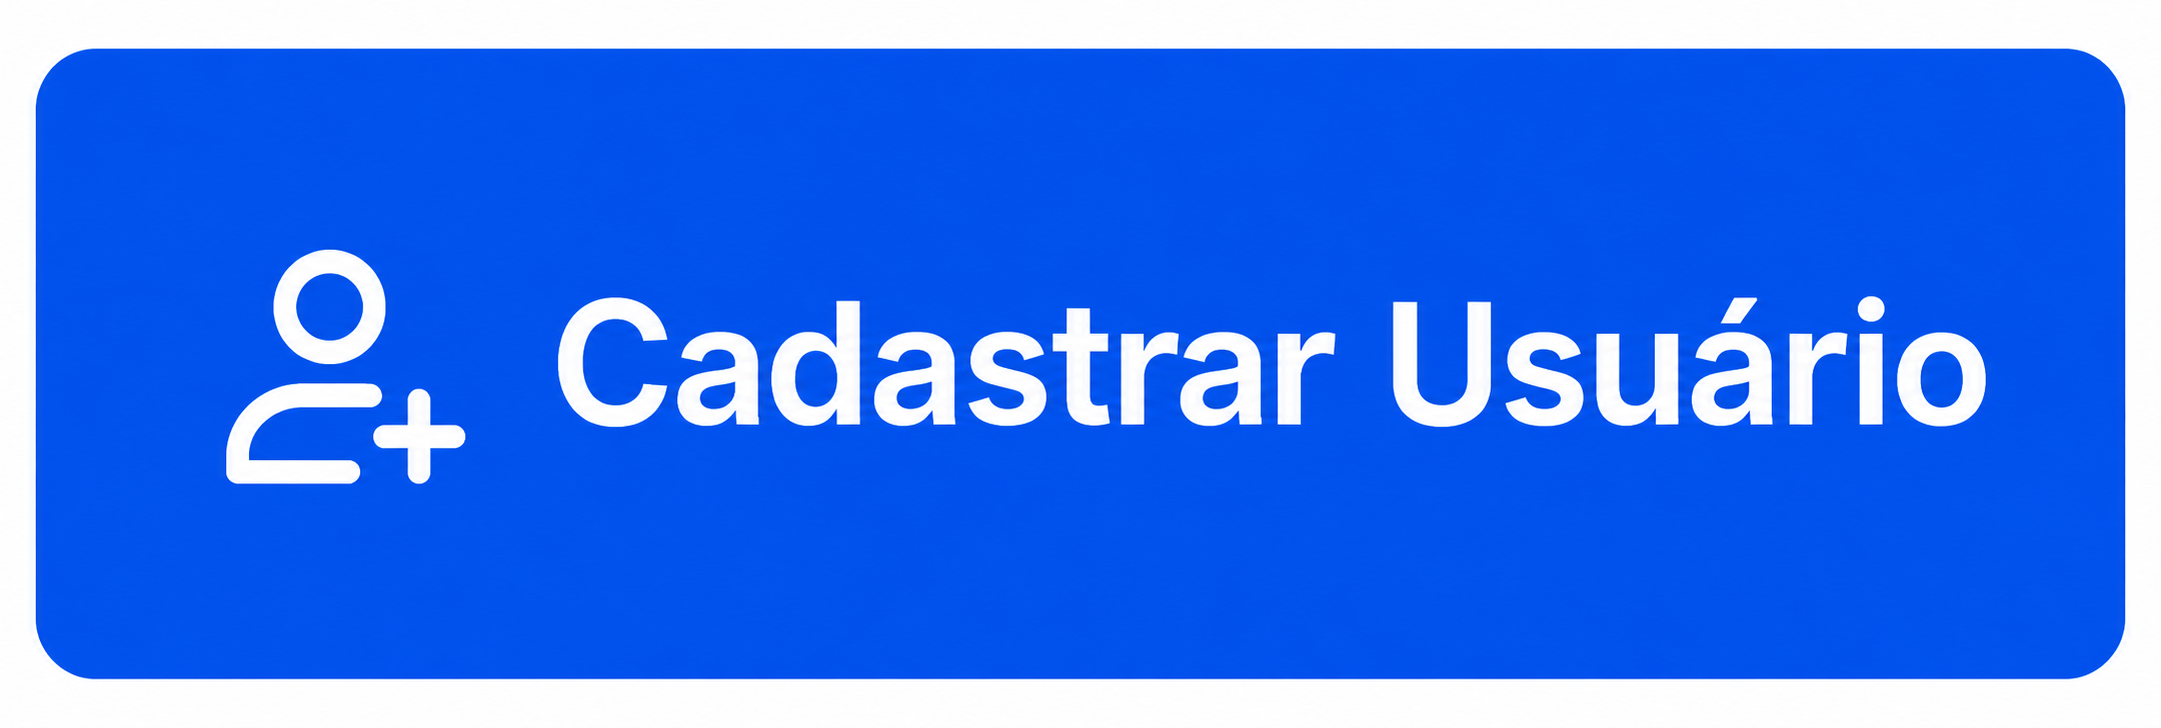
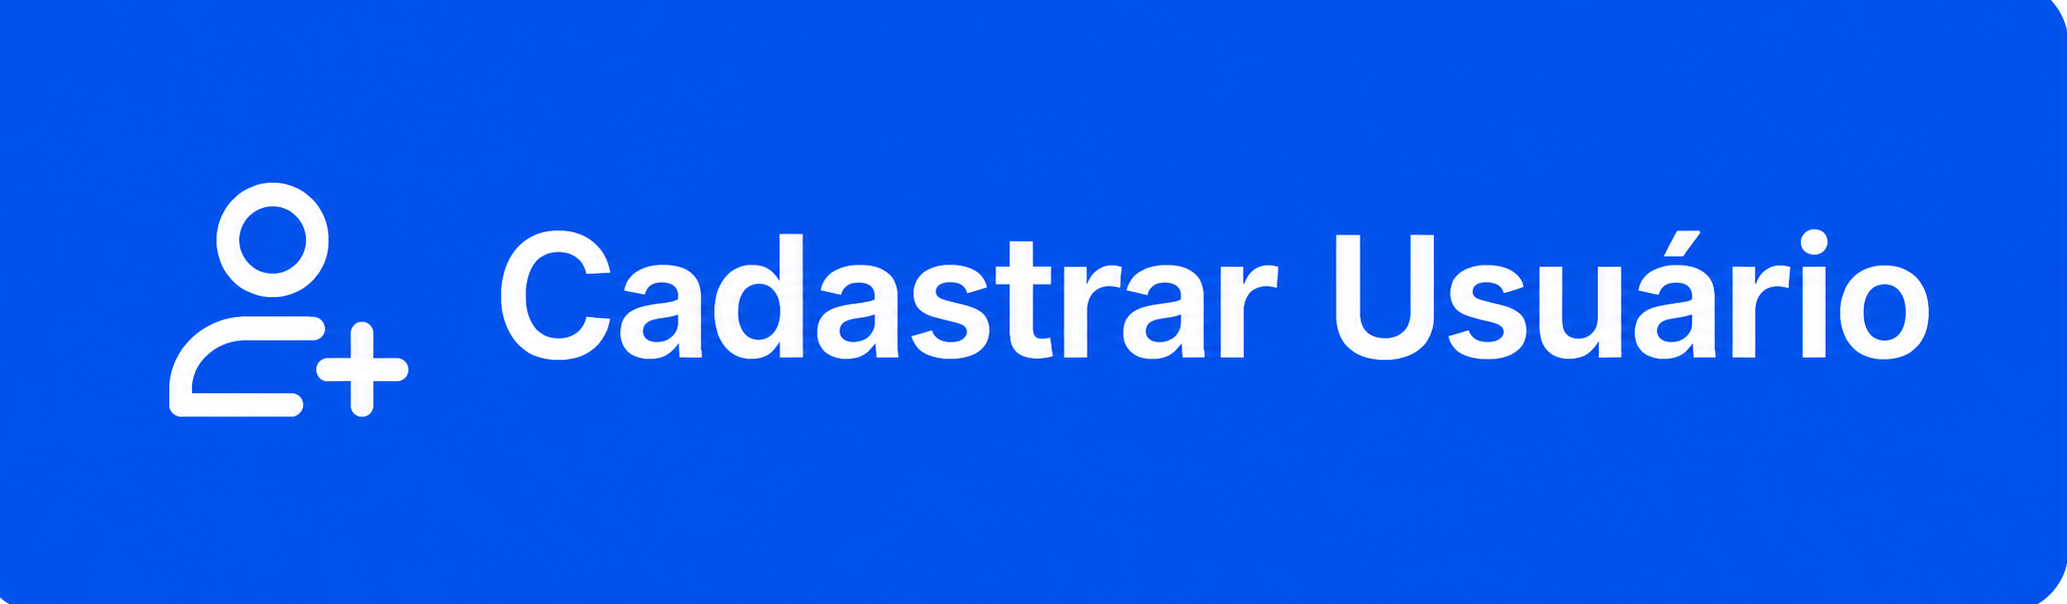
feat: continuação da  criação front de cadastro de usuários

Changed region(s): [[0.0, 0.0, 1.0, 1.0], [0.2167, 0.3576, 0.6193, 0.596], [0.0619, 0.298, 0.2167, 0.7152]]

diff --git a/src/main/resources/static/cadastro/cadastro.css b/src/main/resources/static/cadastro/cadastro.css
@@ -55,24 +55,125 @@ body{
 
 .cardInput{
     width:90vw;
-    height: 50vh;
+    height: 59vh;
     background-color: #FFFFFF;
     border-radius: 8px;
     display: flex;
     flex-direction: column;
-    justify-content: center;
+   
     padding: 1rem;
-    box-shadow: 0 4px 6px rgba(0, 0, 0, 2.5);
+    box-shadow: 0 4px 10px rgb(0, 0, 0, 0.15);
     margin-top: 0;
+    padding-top: 0;
+    gap: 3rem;
     
     
 }
 
 .imgTitulo{
-    width: 28vw;
-    height: 20vh;
+    padding-left: 2rem;
+    padding-top: 2rem;
+    width: 28rem;
+    height: auto;
 }
+
+.form button{
+    border: none;
+    cursor:pointer;
+    width: 10rem;
+    height: 2.5rem;
+ 
+
+}
+
 .imgBtn{
-    width: 15vw;
+    width: 10rem;
+    height: 2.5rem;
+    display: block;
+    border-radius: 8px;
+    outline: none;
+    transition: transform 0.1s;
+}
+
+.imgBtn:active{
+    transform:scale(0.95)
+
+}
+
+.form{
+   display: flex;
+   align-items: end;
+   gap: 4rem;
+   padding-left: 3rem;
+   
+}
+
+.form div{
+    display: flex;
+    flex-direction: column;
+    gap: 0.7rem;
+}
+
+.form div label{
+    font-weight: bold;
+}
+.form div input{
+    border: 1px solid #b5b5b5;
+    border-radius: 8px;
+    outline: none;
+    width: 15rem;
+    height: 2rem;
+    padding: 1rem;
+}
+.form div input:focus{
+    border: 1px solid #000;
+}
+
+.cardLista{
+    width:90vw;
+    min-height: 59vh;
+    background-color: #FFFFFF;
+    border-radius: 8px;
+    box-shadow: 0 4px 10px rgb(0, 0, 0, 0.15);
+    padding-left: 3rem;
+    padding-right:2rem;
+    padding-top: 2rem;
+    display: flex;
+    flex-direction: column;
+    gap: 2rem;
+}
+
+.table{
+    width: 100%;
+}
+.table tr{
+    background-color: #dddada;
+    border-radius: 8px;
+    display:flex;
+    align-items: center;
+    width: 100% ;
+    height:3.5rem ;
+    padding: 0 1.5rem;
+    
+
+   
+}
+
+table tr th, .table tr td, .table tr div {
+    /* Tira o gap fixo e faz as colunas se distribuísem de forma proporcional */
+    flex: 1; 
+    text-align: left;
+    font-weight: bold;
+}
+
+/* 5. AGORA FUNCIONA: Forçando apenas a coluna do ID a ser pequena */
+.colunaId {
+    flex: 0 0 80px !important; /* Não deixa o flex esticar ela. Fixa em 80px */
+}
+
+
+
+.imgLista{
+    width: 20rem;
     height: auto;
 }

diff --git a/src/main/resources/static/cadastro/cadastro.html b/src/main/resources/static/cadastro/cadastro.html
@@ -19,18 +19,40 @@
     <div class="cardInput">
         <img class="imgTitulo" src="../cadastro/imagens/imgInput.PNG" alt="">
         <hr>
-        <form>
-            <label for="nome">Nome</label>
-            <input type="text" placeholder="Digite o nome do usuário">
 
-            <label for="email">E-mail</label>
-            <input type="email" placeholder="Digite o e-mail do usuário">
+        <form class="form">
+            <div>
+                <label for="nome">Nome</label>
+                <input type="text" placeholder="Digite o nome do usuário">
+            </div>
 
-            <label for="senha">Senha</label>
-            <input type="password" placeholder="Digite a senha">
+            <div>
+                <label for="email">E-mail</label>
+                <input type="email" placeholder="Digite o e-mail do usuário">
+            </div>
+
+            <div>
+                <label for="senha">Senha</label>
+                <input type="password" placeholder="Digite a senha">
+            </div>
 
             <button><img class="imgBtn" src="../cadastro/imagens/imgBtCad.PNG" alt="Botão Cadastrar"></button>
         </form>
+    </div>
+
+    <div class="cardLista">
+        <img class="imgLista" src="../cadastro/imagens/imgLista.PNG" alt="">
+        <table class="table">
+            <thead> <!-- cabeçalho -->
+                <tr> <!-- uma linha -->
+                    <th class="colunaId" >ID</th> <!-- célula de cabeçalho -->
+                    <th>Nome</th>
+                    <th>E-mail</th>
+                    <th>Ações</th>
+
+                </tr>
+            </thead>
+        </table>
     </div>
 
 
